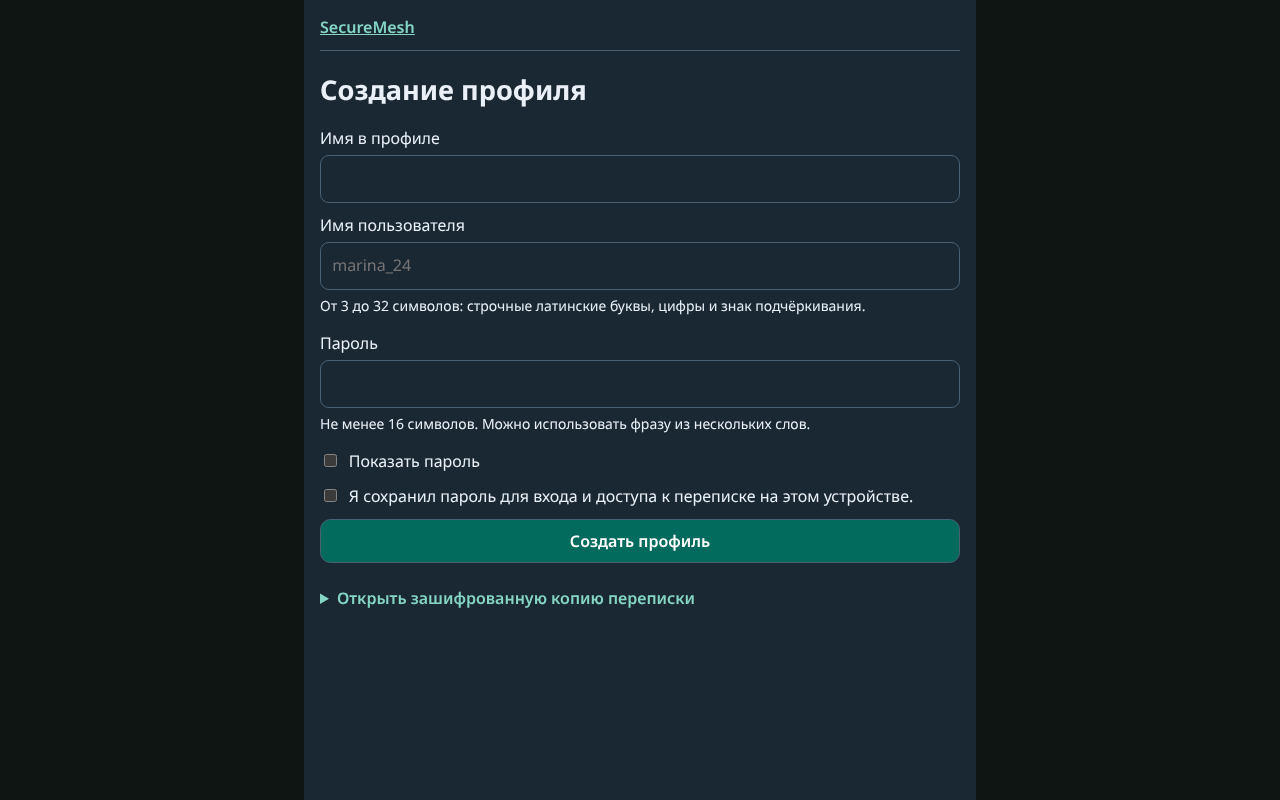
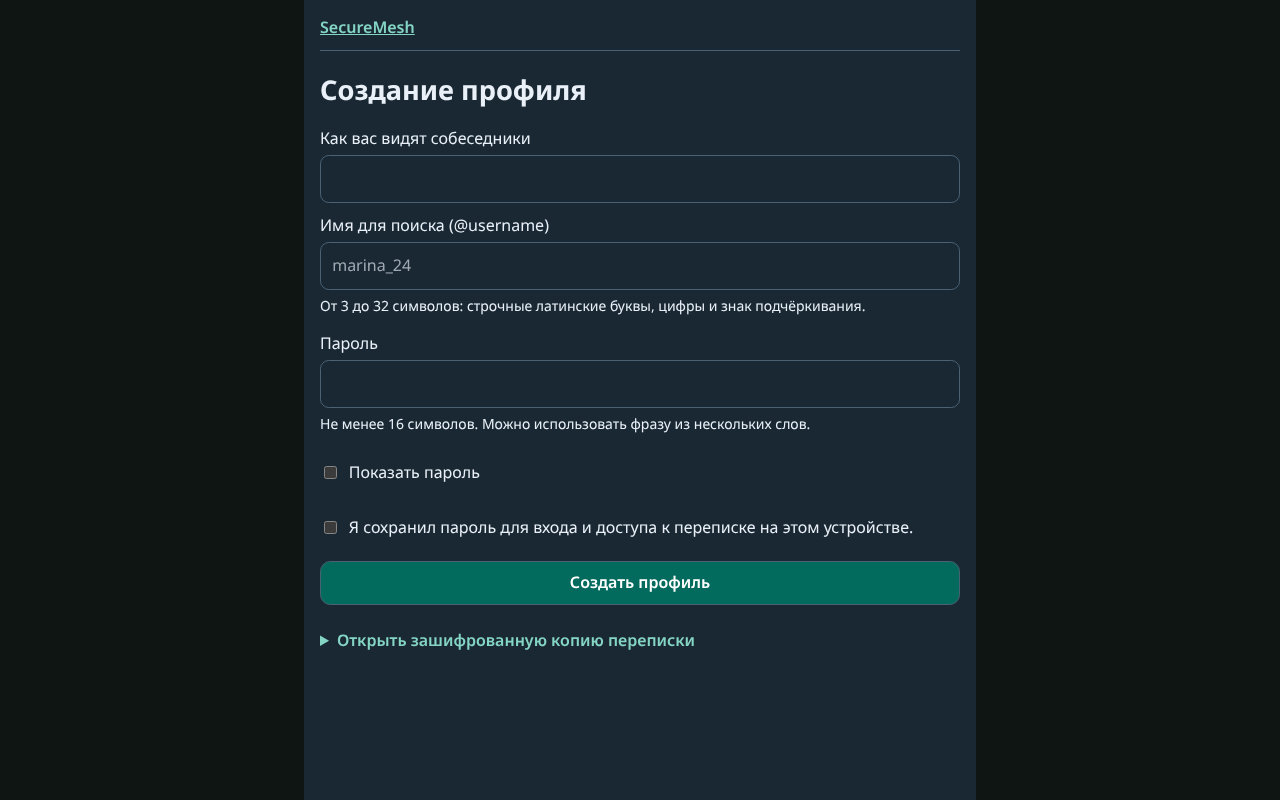
Clarify public names and enlarge accessible onboarding controls after visual review

Changed region(s): [[0.25, 0.5625, 0.75, 0.8125], [0.25, 0.25, 0.4062, 0.3438], [0.25, 0.1562, 0.4062, 0.1875]]

diff --git a/site/app/profile.html b/site/app/profile.html
@@ -35,10 +35,10 @@
       <form id="entry" hidden>
         <div id="new-fields">
           <label
-            >Имя в профиле<input name="name" dir="auto" autocomplete="nickname"
+            >Как вас видят собеседники<input name="name" dir="auto" autocomplete="nickname"
           /></label>
           <label
-            >Имя пользователя<input
+            >Имя для поиска (@username)<input
               name="username"
               autocapitalize="none"
               spellcheck="false"

diff --git a/site/app/profile.css b/site/app/profile.css
@@ -79,7 +79,8 @@ label {
 .check {
   display: flex;
   gap: 0.55rem;
-  align-items: baseline;
+  align-items: center;
+  min-height: 44px;
 }
 input:not([type="checkbox"]),
 textarea {
@@ -92,6 +93,10 @@ textarea {
   background: var(--card);
   color: inherit;
   font: inherit;
+}
+input::placeholder {
+  color: color-mix(in srgb, var(--text) 65%, var(--card));
+  opacity: 1;
 }
 button,
 summary {
